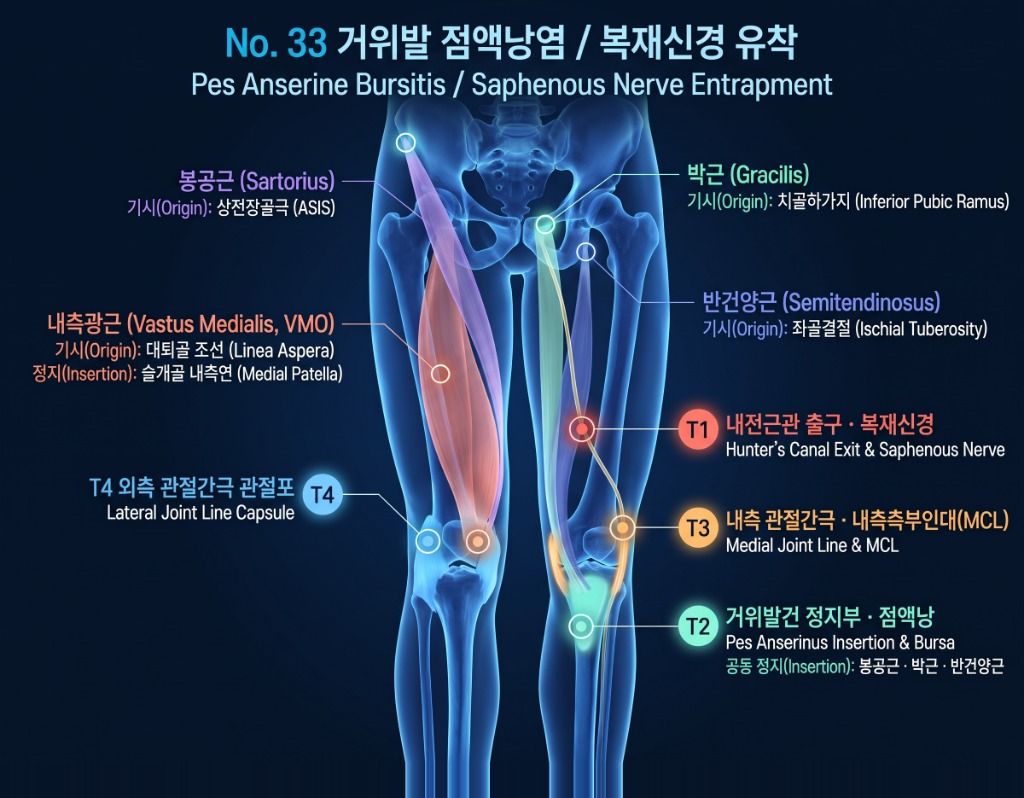
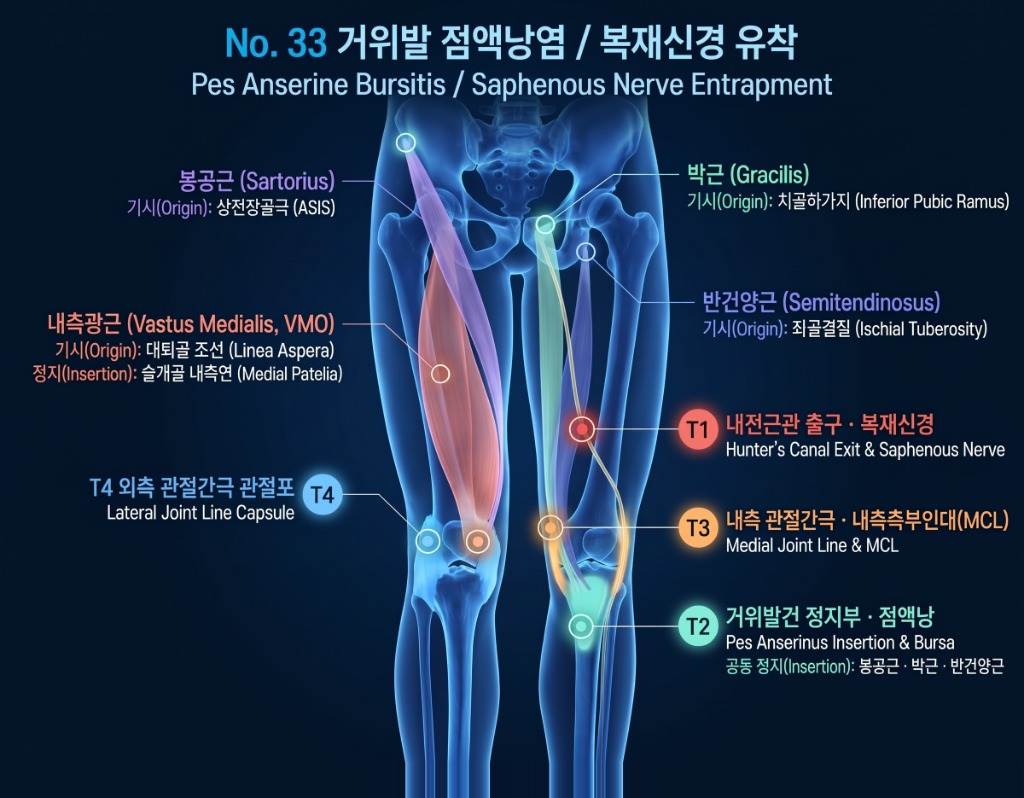
fix(healing-app): replace No.33 image with anatomically corrected medial T3 (MCL) and update pin coords

diff --git a/healing-app/js/pain_data.js b/healing-app/js/pain_data.js
@@ -4246,8 +4246,8 @@ window.PAIN_CONDITIONS = [
       {
         "code": "T3",
         "color": "#ff9f43",
-        "x": 60.8,
-        "y": 66.1,
+        "x": 53.7,
+        "y": 66.0,
         "role": {
           "ko": "관절낭·인대점",
           "en": "Capsule & Ligament Target"
